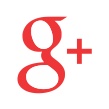
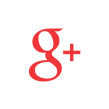
googleplusadd

Changed region(s): [[0.1376, 0.1376, 0.633, 0.8807], [0.578, 0.3303, 0.8532, 0.6055]]

diff --git a/index.php b/index.php
@@ -65,23 +65,23 @@
                             <a class="nav-link" href="#about-us">ABOUT US</a>
                         <li class="nav-item"> <a href="https://www.instagram.com/hazken_graphics/" target="_blank">
                                 <img src="src/img/instagram_icon.png" class="m-1 mt-2"
-                                    style="widows: 23px;height: 23px;"></a></li>
+                                    style="width: 23px;height: 23px;"></a></li>
                         <li class="nav-item"><a href="https://www.facebook.com/hazkengraphics/" target="_blank">
-                                <img src="src/img/facebook.png" class="m-1 mt-2" style="widows: 23px;height: 23px;"></a>
+                                <img src="src/img/facebook.png" class="m-1 mt-2" style="width: 23px;height: 23px;"></a>
                         </li>
                         <li class="nav-item"><a href="https://wa.me/2348176246387" target="_blank">
-                                <img src="src/img/whatsapp.png" class="m-1 mt-2" style="widows: 23px;height: 23px;"></a>
+                                <img src="src/img/whatsapp.png" class="m-1 mt-2" style="width: 23px;height: 23px;"></a>
                         </li>
                         <li class="nav-item"><a href="https://twitter.com/HazkenG" target="_blank">
-                                <img src="src/img/twitter.png" class="m-1 mt-2" style="widows: 23px;height: 23px;"></a>
+                                <img src="src/img/twitter.png" class="m-1 mt-2" style="width: 23px;height: 23px;"></a>
                         </li>
                         <a href="https://plus.google.com/u/1/112044312784836222934/posts?h1=en" rel="author">
-                        <img src="src/img/googleplus.png" class="m-1" style="widows: 40px;height: 40px;"></a>
+                        <img src="src/img/googleplus.png" class="m-1" style="widows: 23px;height: 23px;"></a>
                         <li class="nav-item"><a href="mailto:hazkengraphics@gmail.com">
-                                <img src="src/img/email.png" class="m-1 mt-2" style="widows: 23px;height: 23px;"></a>
+                                <img src="src/img/email.png" class="m-1 mt-2" style="width: 23px;height: 23px;"></a>
                         </li>
                         <li class="nav-item"><a href="tel:+2348176246387">
-                            <img src="src/img/tellphonecall.png" class="m-1 mt-2" style="widows: 23px;height: 23px;"></a>
+                            <img src="src/img/tellphonecall.png" class="m-1 mt-2" style="width: 23px;height: 23px;"></a>
                     </li>
                         <li class="nav-item">
                     </ul>
@@ -671,17 +671,17 @@
         </div>
     <div class="d-flex flex-row justify-content-center">
         <a href="https://www.instagram.com/hazken_graphics/" target="_blank">
-            <img src="src/img/instagram_icon.png" class="m-1" style="widows: 40px;height: 40px;"></a>
+            <img src="src/img/instagram_icon.png" class="m-1" style="width: 40px;height: 40px;"></a>
         <a href="https://www.facebook.com/hazkengraphics/" target="_blank">
-            <img src="src/img/facebook.png" class="m-1" style="widows: 40px;height: 40px;"></a>
+            <img src="src/img/facebook.png" class="m-1" style="width: 40px;height: 40px;"></a>
         <a href="https://wa.me/2348176246387" target="_blank">
-            <img src="src/img/whatsapp.png" class="m-1" style="widows: 40px;height: 40px;"></a>
+            <img src="src/img/whatsapp.png" class="m-1" style="width: 40px;height: 40px;"></a>
             <a href="https://twitter.com/HazkenG" target="_blank">
-            <img src="src/img/twitter.png" class="m-1" style="widows: 40px;height: 40px;"></a>
+            <img src="src/img/twitter.png" class="m-1" style="width: 40px;height: 40px;"></a>
             <a href="https://plus.google.com/u/1/112044312784836222934/posts?h1=en" rel="author">
-            <img src="src/img/googleplus.png" class="m-1" style="widows: 40px;height: 40px;"></a>
+            <img src="src/img/googleplus.png" class="m-1" style="width: 40px;height: 40px;"></a>
             <a href="mailto:hazkengraphics@gmail.com">
-            <img src="src/img/email.png" class="m-1" style="widows: 40px;height: 40px;"></a>
+            <img src="src/img/email.png" class="m-1" style="width: 40px;height: 40px;"></a>
     </div>
     
 <hr>
